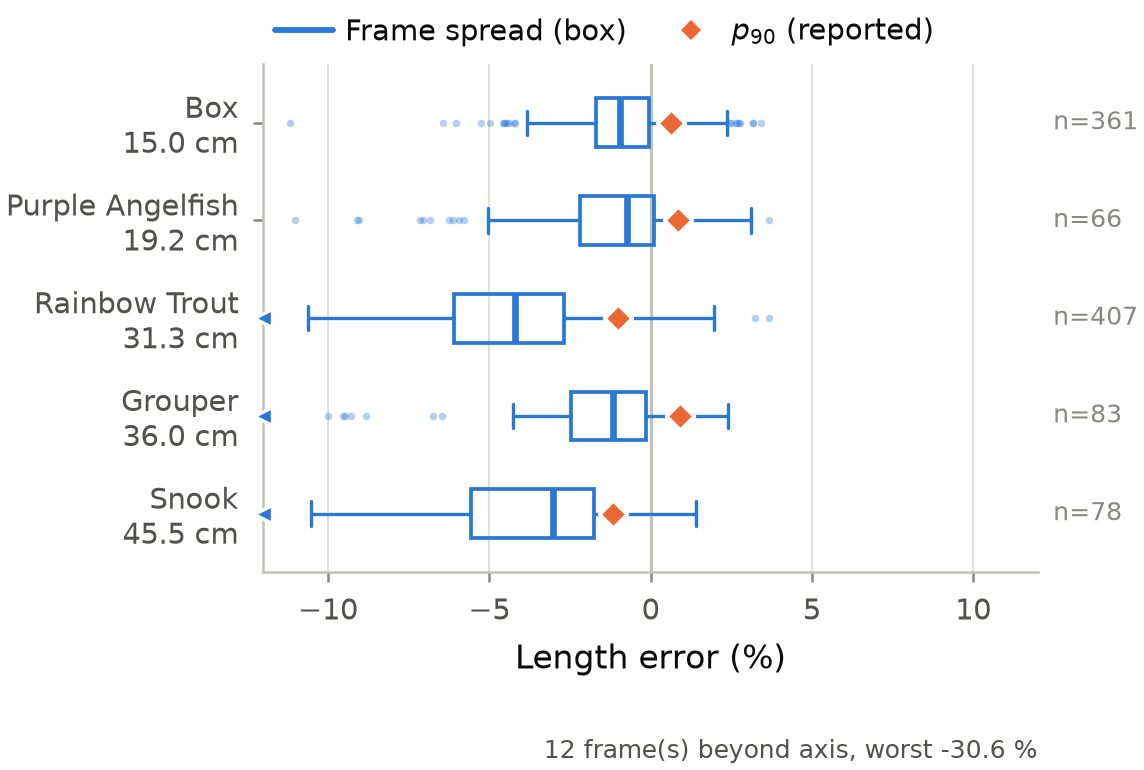
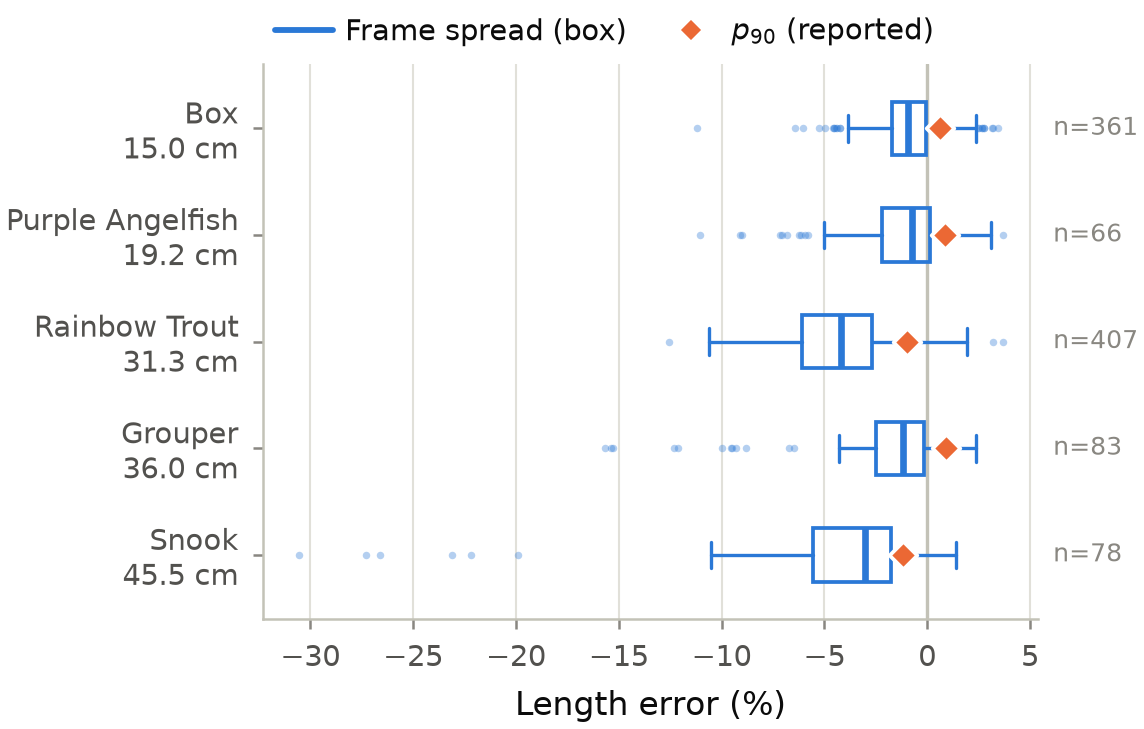
Figure 2: stop clipping it at all
Chris: the "frames beyond axis" note reads as cherry picking. It does, even with
the carets and the extreme added an hour ago -- a clipped axis with a footnote is
still a choice about which frames the reader gets to see, and the footnote is the
tell rather than the fix.

So I rendered it unclipped and looked, which is what I should have done first.
The boxes stay perfectly legible across the full -31 to +4 range. The clip bought
width the figure did not need and cost the thing it exists to argue: the tail is
one-sided, worst on the two largest models, and is the paper's own stated reason
for reporting p90 instead of a mean. All 995 frames are now on the axis and there
is no note to read.

FIGURE A IS DIFFERENT AND KEEPS ITS CLIP, stated rather than silent. One
mis-clicked box frame in a rejected session reads +77.8 %, and letting one frame
in 2,926 set the scale would flatten every row of a per-session figure whose
point is the row medians. That clip is necessary; the caption now says so and
names the frame, the carets show where the forty outside sit, and the note
carries the extreme.

The distinction is the rule I should have applied from the start: clip only when
a pathological single value would destroy the figure, never to tidy a real tail,
and say which one it is.

fig_error_by_model_p90 now defaults to xlim=None. The parameter stays for a
caller that needs it; nothing in the paper passes it. Tests updated -- one now
[…]

diff --git a/tests/test_calibration.py b/tests/test_calibration.py
@@ -583,15 +583,14 @@ def test_the_notebook_draws_every_figure_the_paper_captions():
     assert captioned <= drawn, f"captioned but not drawn: {sorted(captioned - drawn)}"
 
 
-def test_a_clipped_axis_reports_how_far_not_just_how_many():
-    """A clip note that counts but does not size the tail is not disclosure.
+def test_figure_2_is_not_clipped_at_all():
+    """It used to stop at +-12 % with a footnote counting what fell outside, and
+    that reads as choosing which frames to show -- fairly, since the footnote
+    sized nothing and `showfliers` was off besides, hiding 41 of 995 frames.
 
-    Figure 2's axis stops at -12 % while the worst frame in the cohort is
-    -30.6 %, and the earlier note said only "12 frame(s) beyond axis" -- true of
-    a -12.1 % tail and a -30.6 % one alike. Worse, `showfliers` was off, so 41
-    of 995 frames sat past a whisker unseen, four times what the note admitted.
-    The tail is the paper's own reason for reporting p90, so understating it
-    undercuts the argument the figure is there to support.
+    The tail IS the argument: one-sided, worst on the two largest models, and the
+    stated reason the reported estimator is a high quantile. So the axis carries
+    all of it, out to -30.6 %, and there is no note to read.
     """
     from fishsense_imwut import pubfig
 
@@ -602,24 +601,36 @@ def test_a_clipped_axis_reports_how_far_not_just_how_many():
              & ~df.model_name.isin(cal.HELD_OUT_MODELS)]
 
     pubfig.use_publication_style()
-    fig = pubfig.fig_error_by_model_p90(acc)
-    ax = fig.axes[0]
-    notes = [t.get_text() for t in ax.texts if "beyond axis" in t.get_text()]
-    assert len(notes) == 1, "a clipped axis must say so exactly once"
+    ax = pubfig.fig_error_by_model_p90(acc).axes[0]
+    assert not [t for t in ax.texts if "beyond axis" in t.get_text()]
 
-    worst = float(acc.pct_error.min())
-    assert f"{worst:+.1f}" in notes[0], (
-        f"the note must carry the extreme; got {notes[0]!r} against {worst:+.1f}")
-    assert "12 frame" in notes[0]
+    lo, hi = ax.get_xlim()
+    assert lo <= acc.pct_error.min(), "the worst frame must be on the axis"
+    assert hi >= acc.pct_error.max()
 
-    # and the clipped frames are drawn at the boundary rather than dropped
-    lo = ax.get_xlim()[0]
-    carets = [ln for ln in ax.lines
-              if ln.get_marker() in ("<", ">") and len(ln.get_xdata())]
-    assert carets, "clipped frames must be visible at the axis edge"
-    assert all(abs(ln.get_xdata()[0] - lo) < 1e-6 for ln in carets)
-
-    # fliers are on: the Box's worst frame is -11.2 % but its whisker stops
-    # near -3.8 %, so with them off that gap was invisible
-    fliers = [ln for ln in ax.lines if ln.get_marker() == "o" and ln.get_linestyle() == "None"]
+    # and every frame past a whisker is drawn, not suppressed
+    fliers = [ln for ln in ax.lines
+              if ln.get_marker() == "o" and ln.get_linestyle() == "None"]
     assert sum(len(ln.get_xdata()) for ln in fliers) > 25
+
+
+def test_where_clipping_survives_it_says_how_far():
+    """Figure A still clips, and has to: one mis-clicked frame reads +77.8 % and
+    would set the scale for 2,926. A clip that is necessary is fine; a clip that
+    reports only a count is not, because "40 beyond axis" says the same thing
+    whether the tail reaches -36 % or -378 %.
+    """
+    from fishsense_imwut import pubfig
+
+    df = cal.to_frame([r for r in cal.load_rows(DATA / "corpus.csv")
+                       if int(r["dive_id"]) not in cal.NON_POOL_DIVES])
+    pubfig.use_publication_style()
+    ax = pubfig.fig_error_by_dive(df, min_frames=8, xlim=(-35, 15),
+                                  figsize=(pubfig.COL_WIDTH, 5.0)).axes[0]
+
+    notes = [t.get_text() for t in ax.texts if "beyond axis" in t.get_text()]
+    assert len(notes) == 1
+    assert "+77.8" in notes[0], f"the extreme must be named; got {notes[0]!r}"
+
+    carets = [ln for ln in ax.lines if ln.get_marker() in ("<", ">")]
+    assert carets, "clipped frames must be visible at the boundary"

diff --git a/fishsense_imwut/pubfig.py b/fishsense_imwut/pubfig.py
@@ -642,8 +642,8 @@ def _p90_marker(ax, x, y, label=None, **kw):
 
 def fig_error_by_model_p90(
     df: pd.DataFrame,
-    figsize: tuple[float, float] = (COL_WIDTH, 2.2),
-    xlim: tuple[float, float] | None = (-12, 12),
+    figsize: tuple[float, float] = (COL_WIDTH, 2.4),
+    xlim: tuple[float, float] | None = None,
     emphasise: str | None = None,
 ) -> plt.Figure:
     """Per-model error distribution with the p90 estimator marked.
@@ -652,6 +652,14 @@ def fig_error_by_model_p90(
     pipeline actually reports. The gap between the median and the p90 is the
     foreshortening tail, which is the reason the estimator is a high quantile
     and not a mean.
+
+    **NOT CLIPPED, deliberately.** This defaulted to +-12 % with a footnote
+    counting what fell outside, and that reads as choosing which frames to show
+    -- fairly, since the footnote sized nothing and `showfliers` was off besides.
+    Rendering it unclipped settled it: the boxes stay legible across the full
+    -31 to +4 range, and the long negative tail on the two largest models is the
+    figure's actual argument, so hiding it cost more than the width it bought.
+    `xlim` remains for a caller that needs it; nothing in the paper uses it.
 
     `emphasise` recolours one model as the accent and greys the rest -- the
     emphasis form, for when a single model is the point (Shark).

diff --git a/PAPER.md b/PAPER.md
@@ -756,11 +756,10 @@ caught any of this in the field.
 - **Figure 2** — Percent length error by target, accuracy cohort. Box: frame-level
   interquartile range and whiskers; dots: every frame past a whisker; diamond: $p_{90}$,
   the reported estimator. The gap between median and $p_{90}$ is the pose tail, not
-  instrument spread. The axis stops at ±12 % so the boxes are not crushed into a third of
-  the width by a one-sided tail; the twelve frames outside it are drawn as carets on the
-  boundary and the note gives the worst, −30.6 %. Both matter: a clipped axis that reports
-  only a count says the same thing whether the tail reaches −12 % or −31 %, and the size
-  of that tail is the whole reason the reported estimator is a high quantile.
+  instrument spread. **Nothing is clipped and nothing is omitted** — all 995 frames are on
+  the axis, out to the worst at −30.6 %. That tail, one-sided and worst on the two largest
+  models, is the whole reason the reported estimator is a high quantile rather than a mean,
+  so a narrower axis would have hidden the figure's own argument.
 - **Figure 3** — Percent length error against laser range, accuracy cohort. Binned median
   and interquartile band over the per-frame cloud. The band does not widen with range.
 - **Figure 4** — Fitted in-plane laser angle for seven sessions of one unit, the parameter
@@ -891,7 +890,11 @@ caught any of this in the field.
   budget. No frame within 20° of broadside breaches it; the pooled median crosses at 30°.
   The guidance in the text is 15°.
 - **Figure A (appendix)** — Percent length error for every session with ≥ 8 frames,
-  ordered by median. The held-out and rejected sessions are the wide, negative rows.
+  ordered by median, held-out targets included. The held-out and rejected sessions are the
+  wide, negative rows. This one **is** clipped, to −35–15 %, and unlike Figure 2 it has to
+  be: a single mis-clicked box frame in one rejected session reads +77.8 %, and letting one
+  frame in 2,926 set the scale would flatten every row. The forty frames outside are drawn
+  as carets on the boundary and the note carries the extreme.
 
 Drop-in: figures are sized for the `acmart` column already (`\includegraphics` with no
 `width=`); see the last cell of the notebook.
